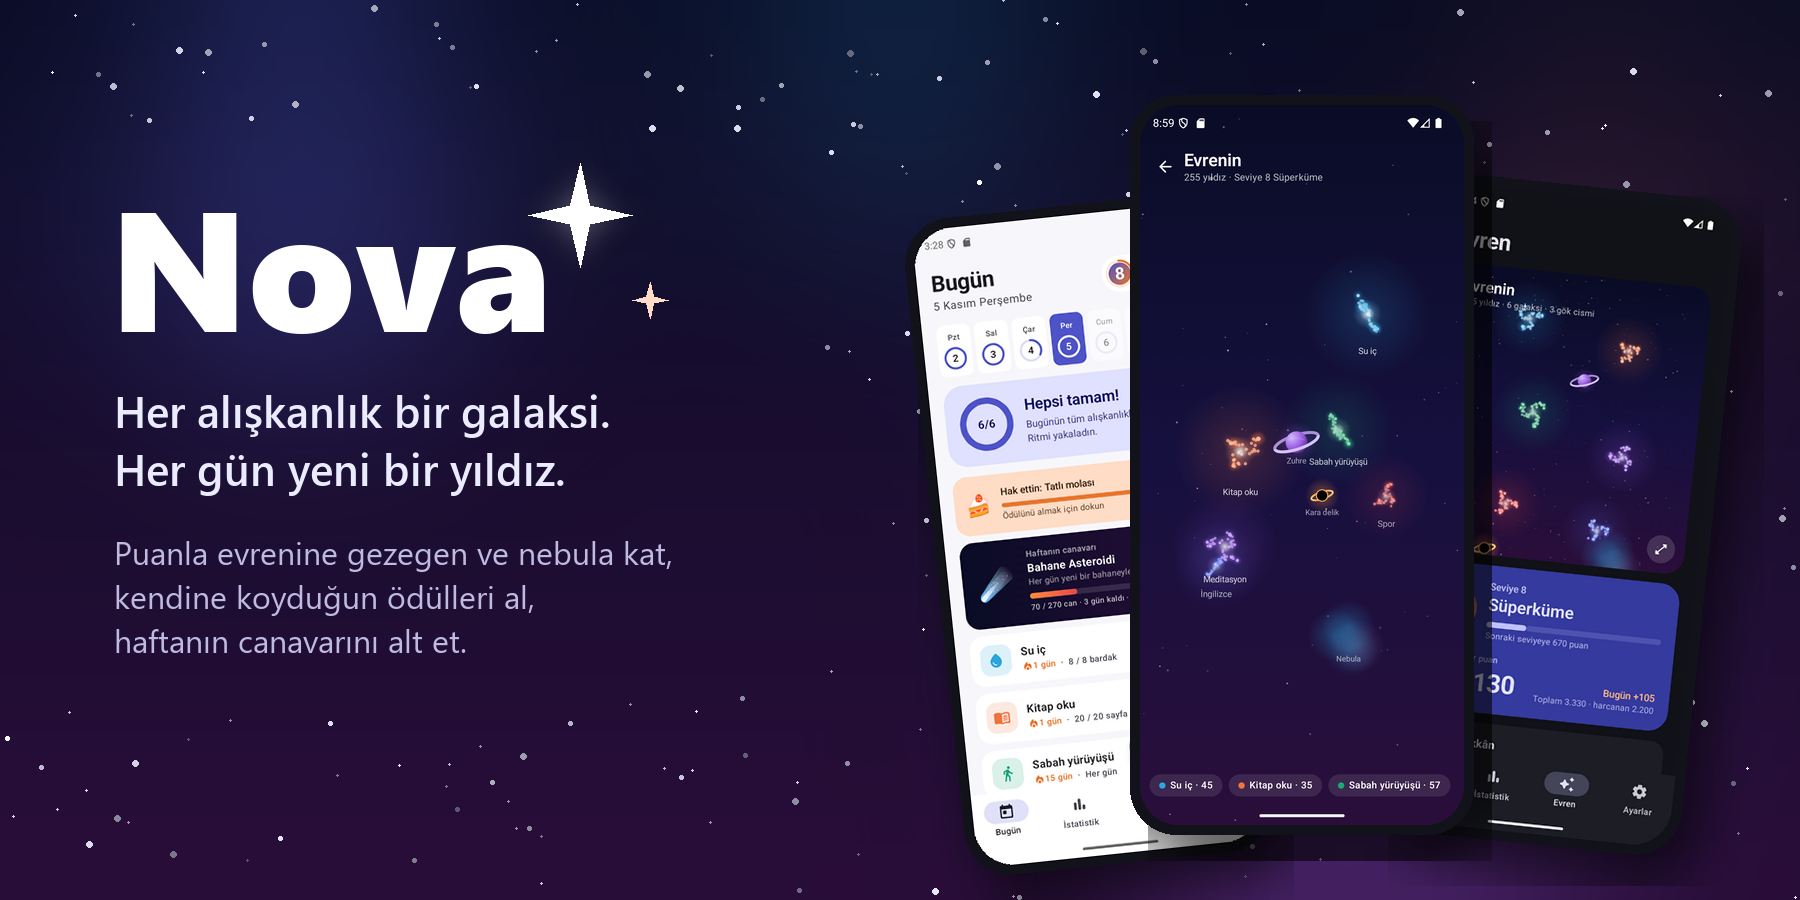
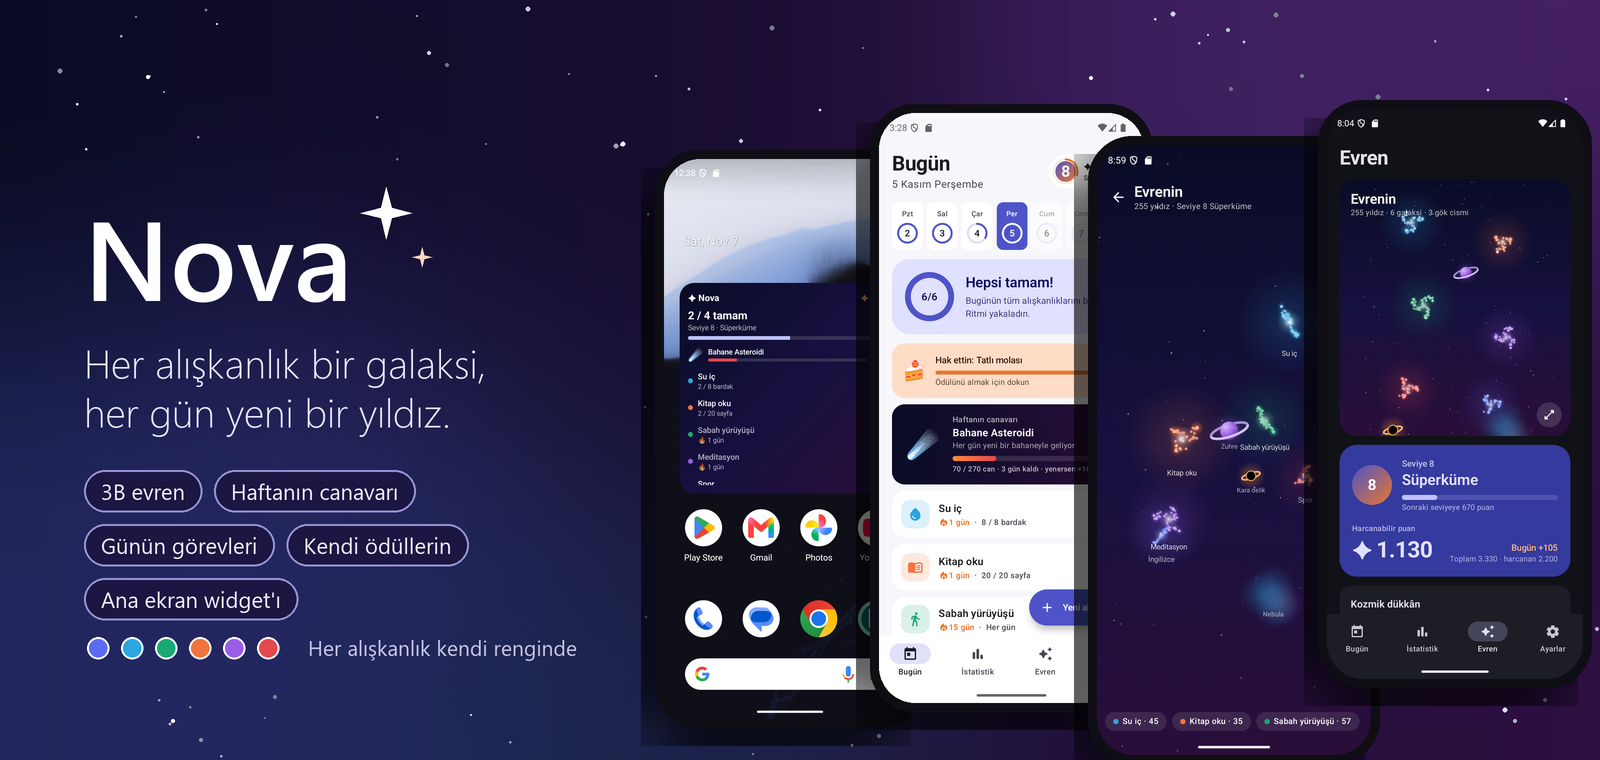
README: yeni kapak görseli ve widget vurgusu

diff --git a/README.md b/README.md
@@ -1,17 +1,19 @@
 <p align="center">
-  <img src="docs/kapak.png" alt="Nova: Bugün ekranı, haftanın canavarı ve 3B evren" />
+  <img src="docs/kapak.png" alt="Nova: ana ekran widget'ı, Bugün ekranı, 3B evren ve Evren sekmesi" />
 </p>
 
 <p align="center">
   <b>Alışkanlıklarını takip et, evrenini büyüt.</b><br/>
   Her alışkanlık gökyüzünde bir galaksi; tamamladığın her gün ona yeni bir yıldız ekler.<br/>
-  Kazandığın puanlarla evrenine gezegenler kat, kendine koyduğun ödülleri al, haftanın canavarını alt et.
+  Kazandığın puanlarla evrenine gezegenler kat, kendine koyduğun ödülleri al, haftanın canavarını alt et.<br/>
+  Uygulamayı açmadan da ana ekrandaki widget'tan tik at.
 </p>
 
 <p align="center">
   <a href="https://github.com/l4NGEL/nova/actions/workflows/ci.yml"><img src="https://github.com/l4NGEL/nova/actions/workflows/ci.yml/badge.svg" alt="CI" /></a>
   <img src="https://img.shields.io/badge/Kotlin-2.1-7F52FF?logo=kotlin&logoColor=white" alt="Kotlin 2.1" />
   <img src="https://img.shields.io/badge/Jetpack%20Compose-Material%203-4285F4?logo=jetpackcompose&logoColor=white" alt="Jetpack Compose" />
+  <img src="https://img.shields.io/badge/Glance-ana%20ekran%20widget-6E56CF" alt="Glance widget" />
   <img src="https://img.shields.io/badge/Room-v3-0F9D58" alt="Room" />
   <img src="https://img.shields.io/badge/Android-8.0%2B-3DDC84?logo=android&logoColor=white" alt="Android 8.0+" />
   <img src="https://img.shields.io/badge/test-49%20birim%20testi-4E54C8" alt="49 birim testi" />
